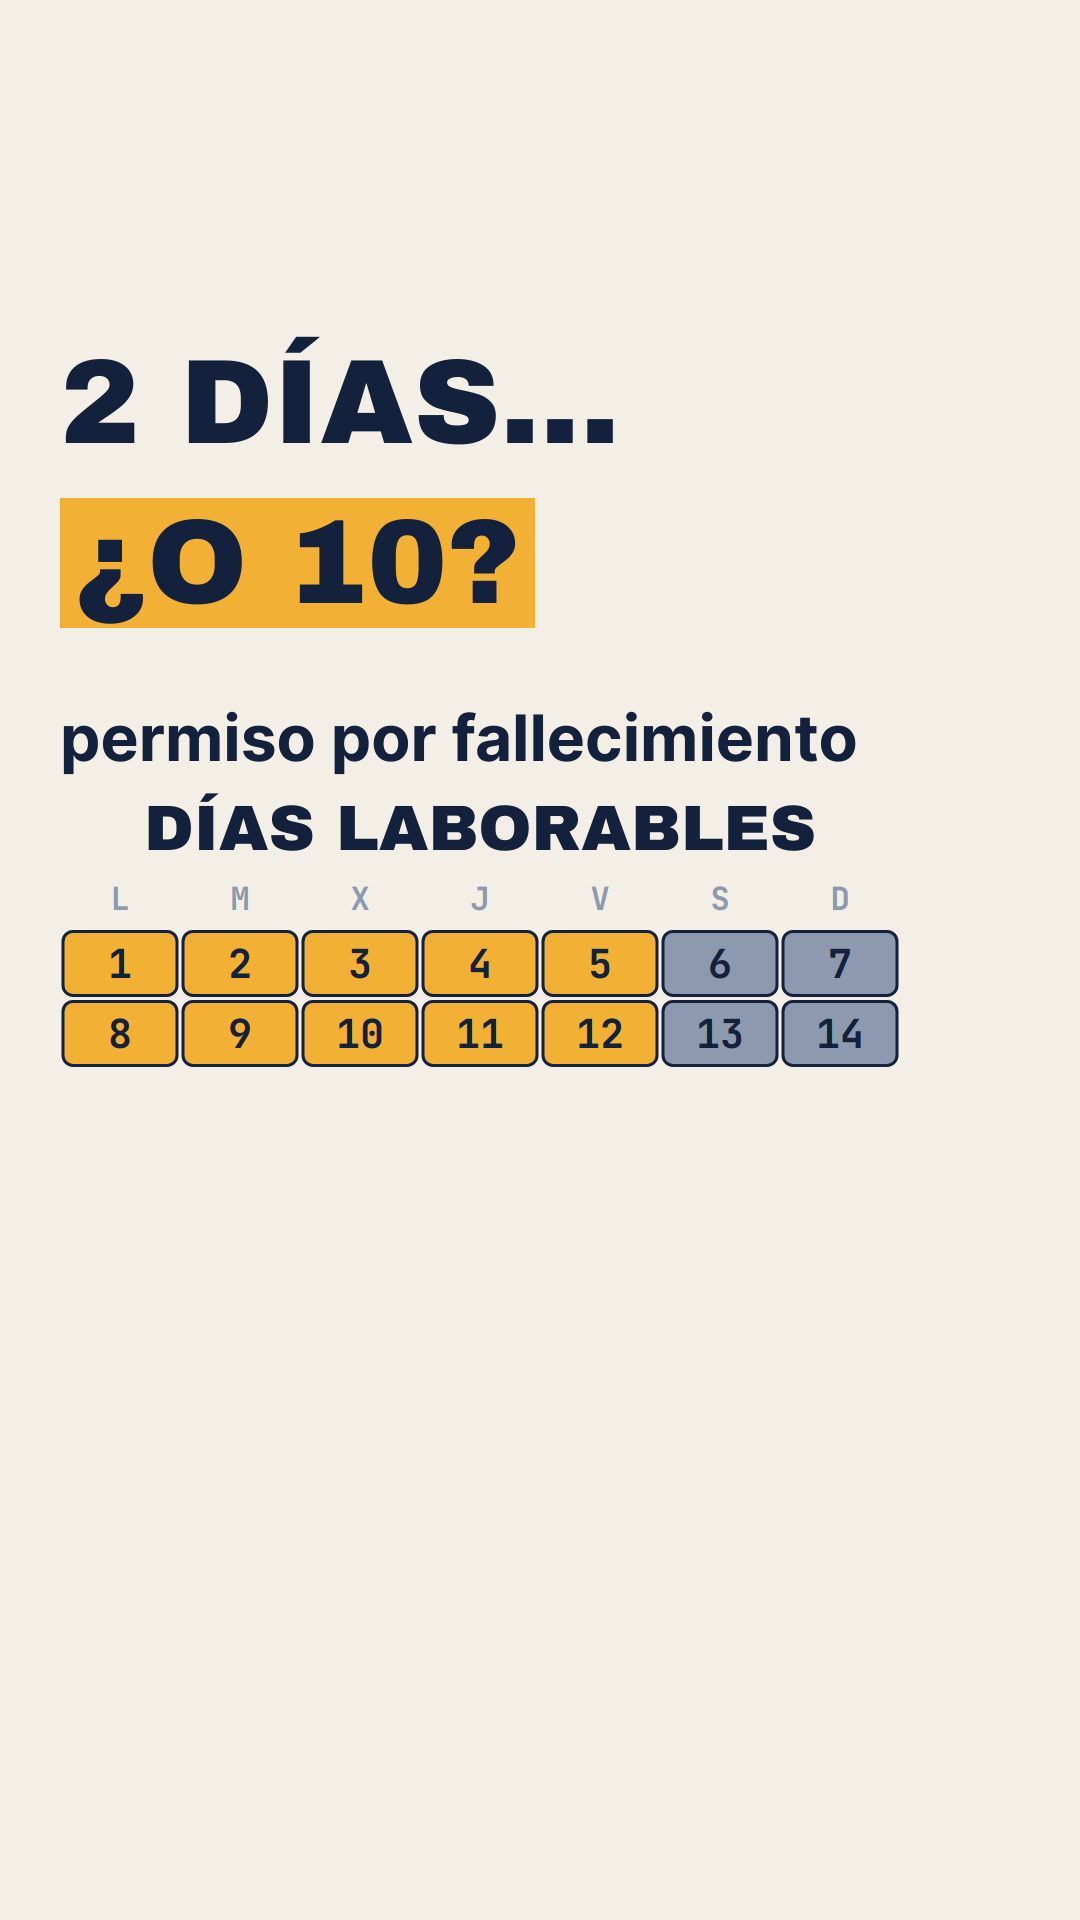
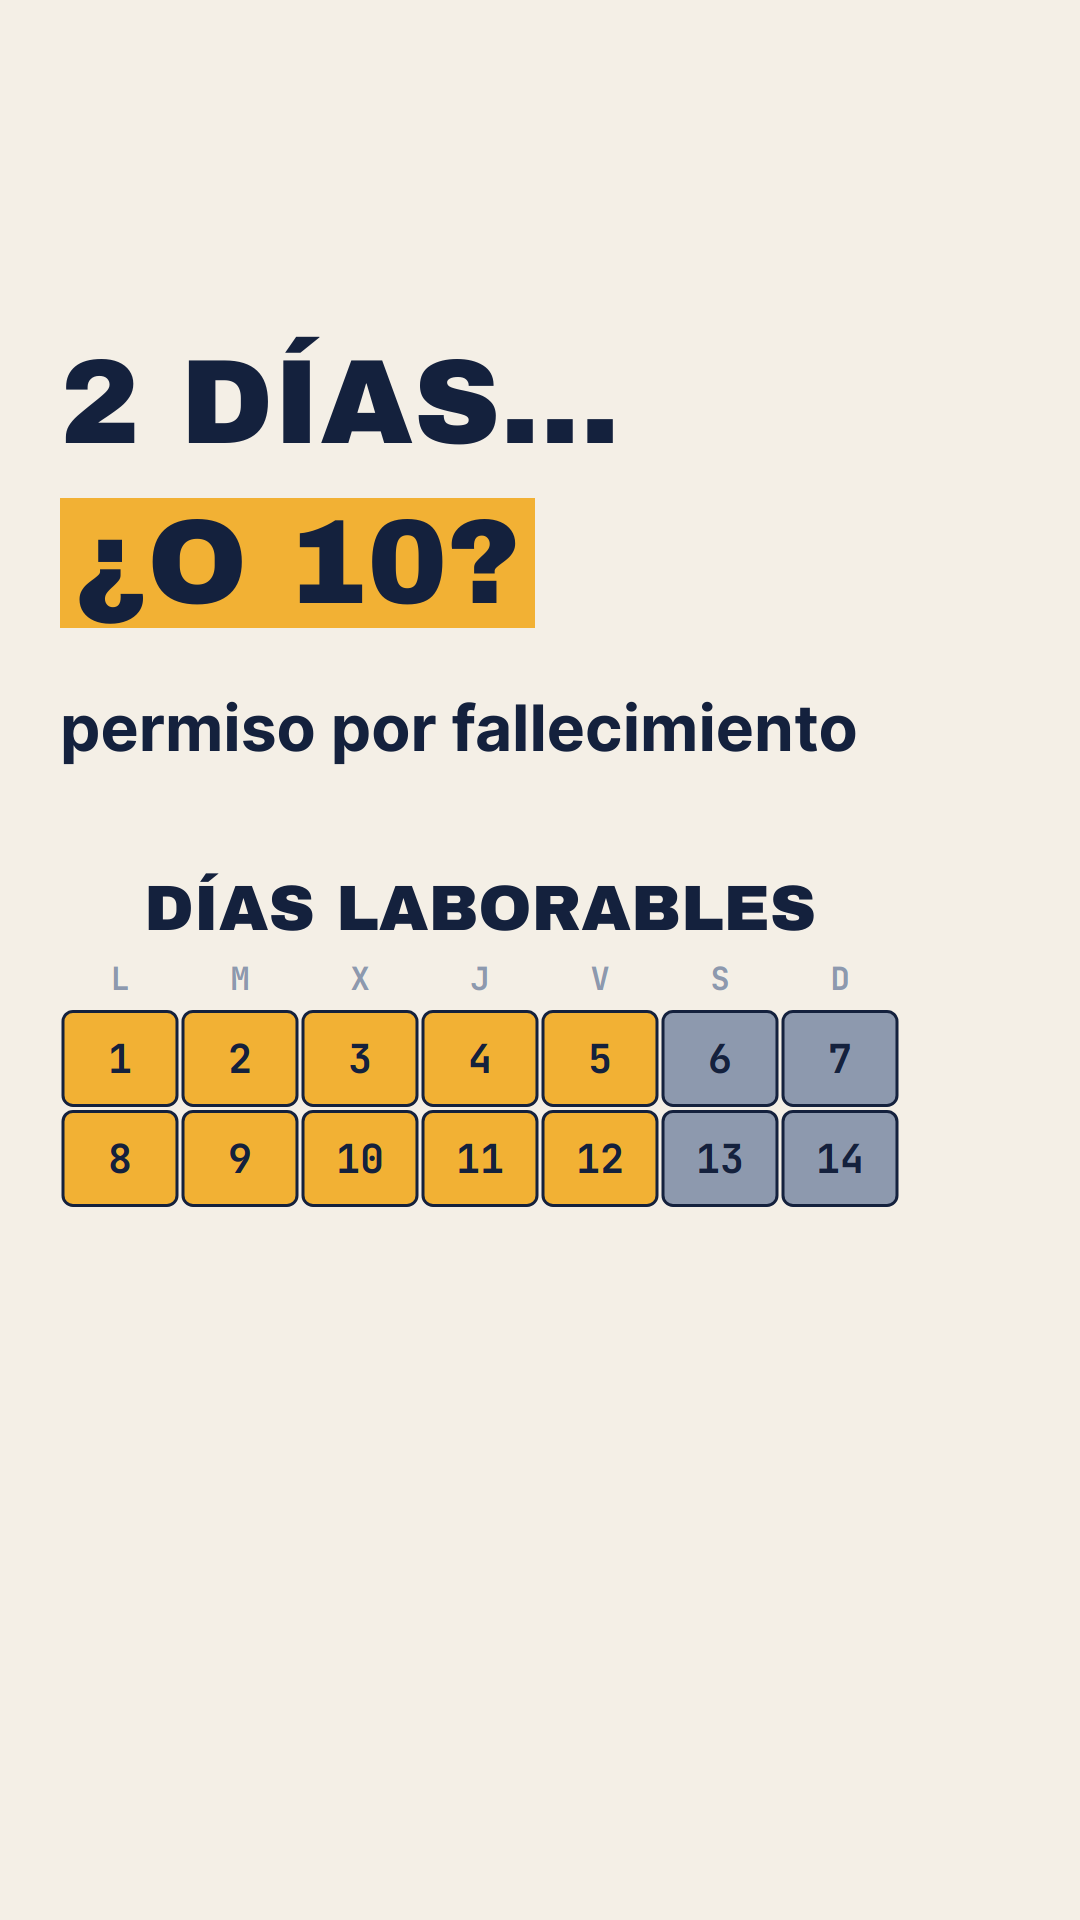
069 en cola 25-11 13:30; informe producción

Changed region(s): [[0.0306, 0.3438, 0.8556, 0.6562]]

diff --git a/revisiones/videos/069-permiso-fallecimiento-diez-dias-v1.md b/revisiones/videos/069-permiso-fallecimiento-diez-dias-v1.md
@@ -1,0 +1,20 @@
+# Revisión de vídeo · 069-permiso-fallecimiento-diez-dias · vuelta 1
+**Veredicto:** CAMBIOS  →  vuelve a: generador-video
+**Técnica:** 1080x1920 · 30 fps · H.264+AAC · 36,2 s · -14,1 LUFS · pico -1,5 dBTP. Voz real elevenlabs (provisional=false). comprobar.mjs: OK.
+**Test de formato Reel/TikTok:** 8/10 (fallan: legibilidad/zonas seguras en 2 escenas; tercio inferior vacío)
+
+## Obligatorio (bloqueante)
+1. [≈26–29 s] Sello "PENDIENTE" (y=1050) queda tapado por la pastilla de subtítulos ("Y aún no consta desde"): se lee "ENDIENTE" → subirlo (y ≈ 900) o bajar el calendario; sin tapar subtítulos.
+2. [≈20–23 s] Rótulo "Motivo: coste para empresas" (2 líneas, y=510) roza la viga de la balanza (y=680) → mover balanza a y ≥ 760 o acortar a una línea.
+
+## Formato Reel/TikTok
+1. [7,6–16 s] Rótulo 2 líneas "Gobierno: más tiempo para el duelo" (y=330) casi pegado a "Anunciado el 23-11" (y=505): subir este a y≈540.
+2. Portada: bien (gancho claro, 10 casillas laborables), pero tercio inferior vacío y "DÍAS LABORABLES" pegado a "permiso por fallecimiento".
+
+## Recomendado
+1. Nota del decreto ley (40 px, 3 líneas) larga: leída en ~7 s, vale; partir mejor "...que aprueba el Gobierno y el Congreso debe confirmar".
+2. Verificado en controles solo hasta el 5; cierre "¿2 O 10 DÍAS?" + Síguenos comprobar en el render final.
+
+## Lo que funciona bien
+- Literales del guion y "anunció" correctos (comprobar OK); voz.txt coincide, "ce o e" solo fonético.
+- Gancho con cambio inmediato, idea única, se entiende sin sonido, sin opinión ni burlas, x ≤ 960.

diff --git a/revisiones/videos/069-permiso-fallecimiento-diez-dias-v2.md b/revisiones/videos/069-permiso-fallecimiento-diez-dias-v2.md
@@ -1,0 +1,21 @@
+# Revisión de vídeo · 069-permiso-fallecimiento-diez-dias · vuelta 2
+**Veredicto:** APROBADO
+**Técnica:** 1080x1920 · 30 fps · H.264+AAC · 36,2 s · -14,1 LUFS · pico -1,5 dBTP. comprobar.mjs: OK.
+**Test de formato Reel/TikTok:** 9/10 (resta: tercio inferior vacío)
+
+## Obligatorio (bloqueante)
+Ninguno. Los 2 de la v1 están cerrados:
+1. Sello "PENDIENTE" ya sobre el calendario, por encima de la pastilla; se lee entero (control-5).
+2. "Motivo: coste para empresas" (2 líneas) ya no roza la balanza: hay holgura clara (control-4).
+
+## Formato Reel/TikTok
+1. "Anunciado el 23-11" separado del rótulo de 2 líneas (control-3): cerrado.
+2. Portada: "permiso por fallecimiento" ya despegado de "DÍAS LABORABLES"; gancho claro. Tercio inferior vacío (menor, no bloquea).
+3. Cierre: "¿2 O 10 DÍAS?" + "Síguenos para estar informado" + "Fuentes en la descripción" a 34,5 s: legible, dentro de zona segura, x ≤ 960.
+
+## Recomendado
+1. Tercio inferior vacío en casi toda la pieza: bajar un poco el contenido en próximas piezas del tipo.
+
+## Lo que funciona bien
+- Literales y datos sin cambios respecto a la v1 (comprobar OK). Audio y sincronía no tocados: se conserva la valoración anterior.
+- Idea única, se entiende sin sonido, sin opinión ni burlas.

diff --git a/memoria/revisor-video.md b/memoria/revisor-video.md
@@ -90,3 +90,5 @@
 - [064] Pieza 'flash' barrasHSerie: control-N.png (6, hstack 360) + comprobar.mjs + loudnorm + node de escenas bastan; el generador omite sellos DATO/logo del guion; la nota de 2b salta a la escena siguiente. (064, 2026-11-22)
 - [066] Pieza 'flash' barrasVSerie con 12 barras: el generador pone sinValor y etiqueta '' (sin meses ni valores) y omite etiquetas finales del guion ('Cifra oficial: IPC definitivo 15-12'); control-N.png (3,4,6) + 3 frames + comprobar bastan; guion en borradores. (066, 2026-11-23)
 - [067] Pieza "flash" DNI digital (iconos vectoriales): control-N.png (6) + comprobar + loudnorm + 1 tira de 6 fotogramas con crop bastan; etiquetaDni "MÓVIL" queda bajo la base del móvil (esc 1,2 y=820 / etiqueta y=1060) y no lo ve el control. Guion en borradores. (067, 2026-11-23)
+- [069] Pieza 'flash' calendarioX/balanzaM: control-N.png (6, hstack 360) + comprobar + loudnorm bastan; sello PENDIENTE (y=1050) tapado por subtítulos; rótulo 2 líneas roza la balanza. (069, 2026-11-24)
+- [069 v2] Vuelta de recolocación: control-N.png (6, hstack 360) + portada + 1 frame del cierre (34,5 s) + comprobar + loudnorm bastan. (069, 2026-11-24)

diff --git a/estado/programado-hoy.md b/estado/programado-hoy.md
@@ -57,3 +57,4 @@ Para vetar una pieza, di "no" o "para" en el chat: se desprograma.
 | 067-dni-digital-29n (v2) | Reel 34 s | Instagram + TikTok () vía cola | 2026-11-24 19:00 | guion APROBADO (literales aplicados) · vídeo v2 9/10. Recomprobar Interior (60.000 terminales, horario) el 24-11 |
 | 066-pension-enero-vs-ipc (v2) | Reel 36 s | Instagram + TikTok () vía cola | 2026-11-24 13:30 | revisiones/guiones/066-…-v1.md (literales aplicados) · revisiones/videos/066-…-v2.md (9/10). Cálculo propio: si el INE publica el avance de noviembre (27-11) antes, recalcular |
 | 068-calendario-tras-29n (v1) | Reel 34 s | Instagram + TikTok () vía cola | 2026-11-25 19:00 | revisiones/guiones/068-…-v1.md (literales aplicados) · revisiones/videos/068-…-v1.md (9/10). Vigencia hasta 28-11; recomprobar RD 806/2026 |
+| 069-permiso-fallecimiento-diez-dias (v2) | Reel 36 s | Instagram + TikTok () vía cola | 2026-11-25 13:30 | revisiones/guiones/069-…-v1.md (literales aplicados) · revisiones/videos/069-…-v2.md (9/10). ANTES de publicar: recomprobar si Moncloa/BOE confirman la aprobación (verbo "anunció"); si se aprobó, vetar o cambiar a "aprobó" |

diff --git a/estado/informe-produccion-2026-11-24.md b/estado/informe-produccion-2026-11-24.md
@@ -5,3 +5,8 @@
 - A medias: 059 millon-viviendas (sin fuente primaria).
 - TikTok a mano: 066 y 067 llegan a la bandeja de borradores al publicarse en IG; publicarlas desde la app con el texto de publicado/066-… y publicado/067-….
 - Numeración: las Al minuto del 22-11 reutilizaron 066 y 067 en el tablero; la próxima pieza trabajada debe ser la 074.
+
+## Actualización produccion.yml (nube, 09:00-09:30)
+- En cola: 068-calendario-tras-29n v1 (25-11 19:00) y 069-permiso-fallecimiento-diez-dias v2 (25-11 13:30), ambos APROBADO con test 9/10. Hoy 24-11 ya estaba cubierto (066, 067).
+- A medias: 059 millon-viviendas (sin fuente primaria). Propuestas sobrantes en temas/propuestas/2026-11-24.md (ratios guardería, FP online).
+- Cautela 069: Moncloa/BOE no confirmaban la aprobación del decreto el 24-11; el guion dice "anunció".

diff --git a/memoria/coordinador.md b/memoria/coordinador.md
@@ -73,3 +73,4 @@
 - 2026-11-23 produccion.yml: red completa ya funciona; buscador 3 min, guion+vídeo+2 revisiones ≈ 4 vueltas/pieza. El generador crea ya el gráfico con valores si se piden en el encargo; avisar de etiquetas/valores de barras y de la etiqueta 'fuente' desde el principio ahorra la vuelta de v1.
 - 2026-11-23 produccion.yml: huecos de hoy y mañana ya cubiertos en la cola; salida en 2 min sin subagentes.
 - [nube, 2026-11-24] Rutina claude.ai: red igual (curl 000). Informe y salida. Huecos del 25-11 para produccion.yml; próximo número libre 074 (066/067 repetidos en el tablero).
+- 2026-11-24 produccion.yml: 2 piezas (guion+vídeo+revisiones) en ~25 min con 2 en paralelo; render v2 sin --voz ahorra créditos; aplicar literales por SendMessage al guionista fue barato.

diff --git a/estado/pipeline.md b/estado/pipeline.md
@@ -156,3 +156,4 @@ Lo mantiene el coordinador. Una fila por pieza.
 
 **2026-11-24 (rutina claude.ai):** sin red (curl 000). 24-11 cubierto (066, 067); 25-11 para produccion.yml. Próximo número libre: 074. Informe en estado/informe-produccion-2026-11-24.md.
 | 068 | calendario-tras-29n | ⚙ Cómo funciona | Flash | programado | 1 | 1 | 2026-11-25 19:00 (cola) | v1 APROBADO 9/10 |
+| 069 | permiso-fallecimiento-diez-dias | ⚙ Cómo funciona · Actualidad | Flash | programado | 1 | 2 | 2026-11-25 13:30 (cola) | v2 APROBADO 9/10 |
